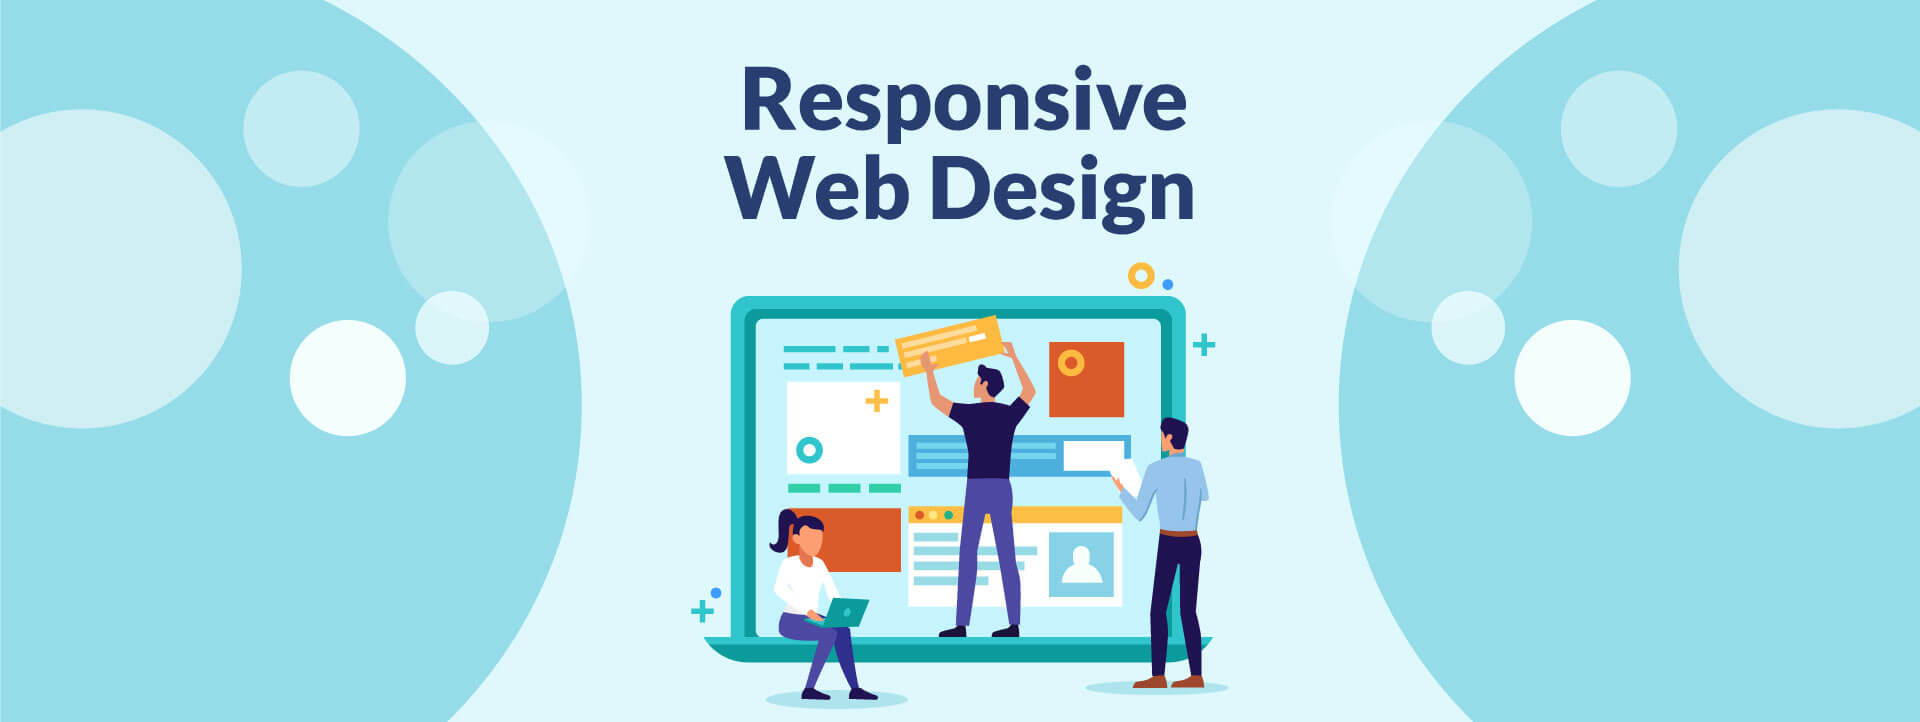
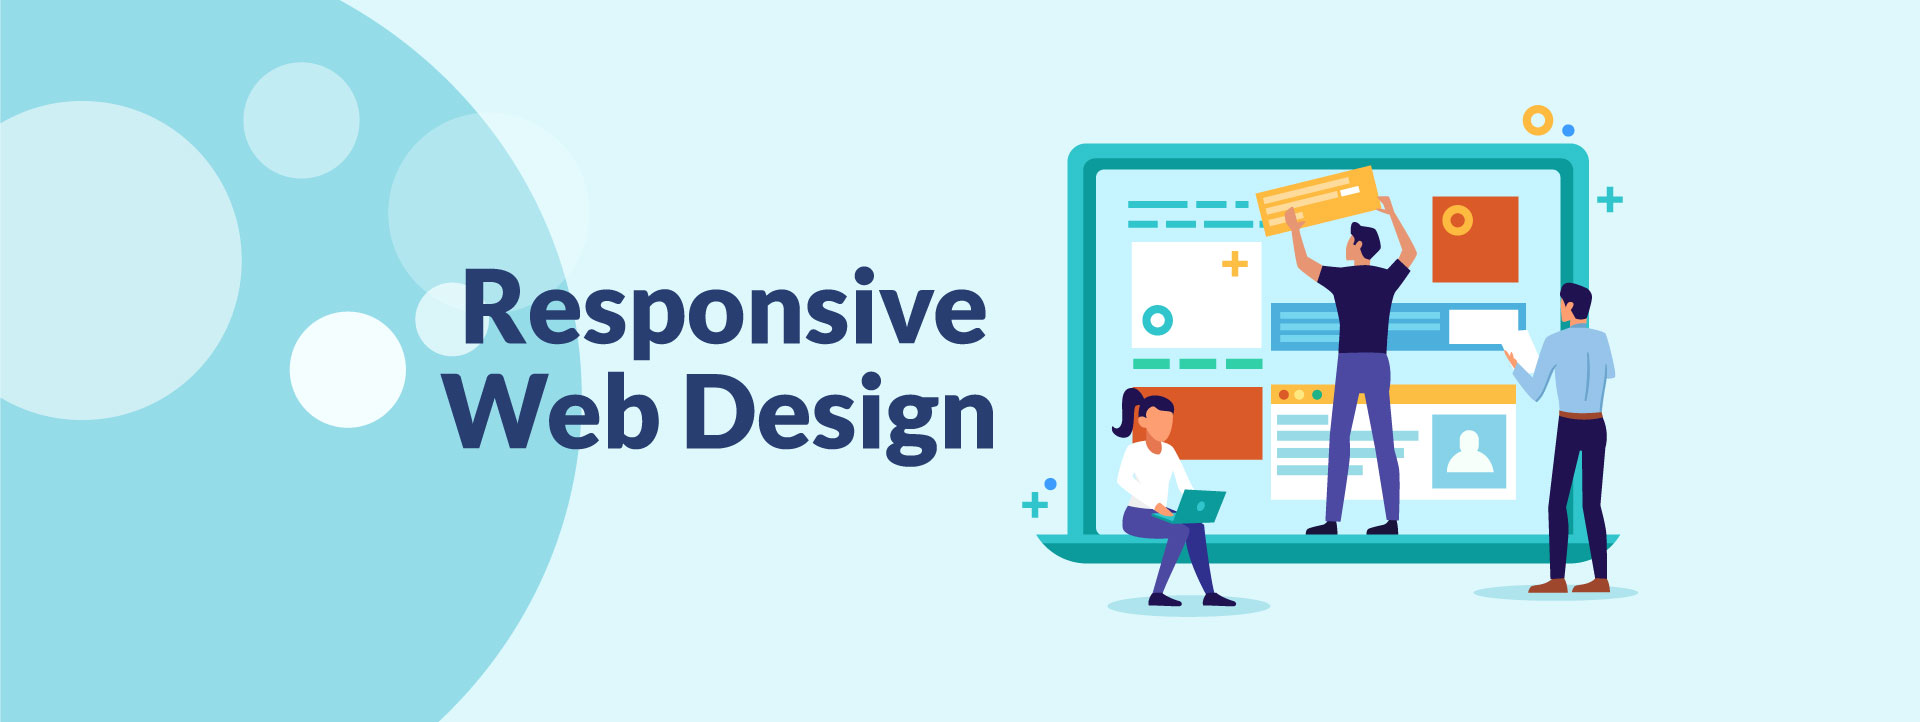
updated hero section

diff --git a/css/style.css b/css/style.css
@@ -1,1 +1,1 @@
-html,body{font-family:"Roboto", sans-serif;font-size:62.5%;scroll-behavior:smooth;padding:0;margin:0;overflow-x:hidden}.primary-btn{display:inline-block;padding:1em 2em;font-size:1.5rem;text-transform:uppercase;color:#fff;background:#5bc0de;margin:1.8em 0;text-decoration:none;border-radius:2%}.primary-btn:hover{color:#fff;background:#2b9cc9;-webkit-transition:all 0.2s ease-in-out;transition:all 0.2s ease-in-out}.navbar{padding:2em 0 1.2em}.navbar .container-fluid{width:95%;border-bottom:1px solid #57526e5d;padding-bottom:0.8em;z-index:1}.navbar .toggle-icon{color:#1b1464}.navbar .navbar-nav .nav-item .nav-link{font-size:1.8rem;padding:1em;font-weight:600;color:#1b1464}.navbar .navbar-nav .nav-item .nav-link:hover{color:#2b9cc9;-webkit-transition:all 0.2s ease-in-out;transition:all 0.2s ease-in-out}.navbar .navbar-nav .num{margin-left:1.8em;color:#1b1464}.navbar .navbar-nav .num span i{font-size:3rem}.navbar .navbar-nav .num span p{font-size:1.6rem;margin-left:0.8em;display:inline-block}#hero .swiper-container{width:100%;height:100vh;position:relative}#hero .swiper-container .swiper-wrapper{position:absolute;top:0%;left:0%}#hero .swiper-container .swiper-wrapper .enroll{position:relative;max-width:100%;max-height:100vh}#hero .swiper-container .swiper-wrapper .enroll>a{position:absolute;left:45%;bottom:4%;color:#000;text-transform:uppercase;padding:0.85em 2.2em;font-size:1.2rem;font-weight:500;z-index:100}#hero .swiper-container .swiper-wrapper .enroll>a:hover{-webkit-transform:scale(0.98);transform:scale(0.98);-webkit-transition:all 0.2s ease-out;transition:all 0.2s ease-out;color:green}#hero .swiper-container .swiper-wrapper .swiper-slide{background-position:center;background-size:cover;position:relative}#hero .swiper-container .swiper-wrapper .swiper-slide .banner-overlay{height:100%;width:100%;position:absolute;top:0;left:0;background-color:rgba(0,0,0,0.199)}#hero .swiper-container .swiper-wrapper .slider-content{width:80%;margin:auto;text-align:center;position:absolute;top:50%;left:50%;-webkit-transform:translate(-50%, -50%);transform:translate(-50%, -50%);z-index:100}#hero .swiper-container .swiper-wrapper h1{font-size:4rem;color:#1b1464;font-weight:600}#hero .swiper-container .swiper-wrapper p{font-size:2.5rem;color:#fff;font-weight:500;margin:1.8em 0}#hero .swiper-container .swiper-wrapper .bt{display:inline-block;width:10em;height:1em;border-radius:10%;background:#5bc0de}#about{background:#f1f1f1;padding:2em 0}#about h4{display:inline-block;font-size:2.5rem;text-transform:uppercase;font-weight:700;text-align:center;color:#f1f1f1;margin-bottom:0.5em;cursor:default}#about p{color:#555555;font-weight:500;font-size:1.5rem;text-align:justify;padding-inline:2em}.section-header h3{position:relative;color:#1b1464;font-size:2.8rem;font-weight:700;padding-top:1.5em;padding-bottom:0.75em;text-align:center;text-transform:uppercase}.section-header h3::before{position:absolute;content:"";bottom:20%;left:50%;background-color:#2b9cc9;height:2px;width:8px}.section-header h3::after{position:absolute;content:"";bottom:20%;left:46%;background-color:#2b9cc9;height:2px;width:48px}.section-header h3 span::before{position:absolute;content:"";bottom:20%;left:51%;background-color:#2b9cc9;height:2px;width:6px}.section-header h3 span::after{position:absolute;content:"";bottom:20%;left:52%;background-color:#2b9cc9;height:2px;width:5px}#pack{padding:2em 0 8em}#pack .pack-box{background:#f1f1f1;padding-bottom:5em;border-radius:2%;-webkit-transition:all linear 0.3s;transition:all linear 0.3s}#pack .pack-box h4{font-size:2.5rem;font-weight:700;padding:0.4em 0 0.2em 0.9em}#pack .pack-box p{font-size:2rem;font-weight:500;padding-bottom:0.2em;color:#959595;padding-left:1.2em}#pack .pack-box:hover{background:#fff;-webkit-box-shadow:2px 4px 25px #959595;box-shadow:2px 4px 25px #959595;-webkit-transition:all linear 0.3s;transition:all linear 0.3s;-webkit-transform:scale(1.025);transform:scale(1.025)}#pack .pack-box:hover p{color:#212529;-webkit-transition:all linear 0.2s;transition:all linear 0.2s}#questions{padding:1.5em 0 5em;background:#f1f1f1}#questions button{font-size:1.8rem;background:#f1f1f1}#questions h3{color:#1b1464;font-size:2.8rem;font-weight:700;padding-top:1.5em;padding-bottom:0.75em}#questions .accordion-body{font-size:1.5rem}#contact{padding:1.5em 0 5em}#contact .list-group-item{font-size:1.9rem}footer #main-footer{background:#2b9cc9;padding:5em 0;background:url(/img/contact-bg.jpg) no-repeat center/cover}footer #main-footer h4{font-size:2.5rem}footer #main-footer p{font-size:1.4rem;color:#f4f2f3}footer #main-footer .s-icon a{width:30px;height:30px;border-radius:20%;text-decoration:none;color:#d8d8dc;border:2px solid #d8d8dc;margin-right:1.5em;display:-webkit-inline-box;display:-ms-inline-flexbox;display:inline-flex;-webkit-box-align:center;-ms-flex-align:center;align-items:center;-webkit-box-pack:center;-ms-flex-pack:center;justify-content:center}footer #main-footer .s-icon a:hover{border:2px solid #1b1464;color:#fff;background-color:#1b1464}footer #main-footer .fh-text{text-transform:uppercase;font-size:1.4rem;font-weight:700;color:#f4f2f3}footer #main-footer .footer-bottom{font-size:1.6rem;display:-webkit-box;display:-ms-flexbox;display:flex;-webkit-box-orient:vertical;-webkit-box-direction:normal;-ms-flex-direction:column;flex-direction:column;text-align:center;-webkit-box-align:center;-ms-flex-align:center;align-items:center;-webkit-box-pack:center;-ms-flex-pack:center;justify-content:center;padding:1em 0}#back-to-top-btn{display:none;-webkit-box-align:center;-ms-flex-align:center;align-items:center;-webkit-box-pack:center;-ms-flex-pack:center;justify-content:center;position:fixed;bottom:8%;text-decoration:none;right:1.5%;font-size:2.5rem;color:#fff;background:#2b9cc9;width:1.8em;height:1.8em;cursor:pointer;outline:none;border-radius:50%;-webkit-transition-duration:0.2s;transition-duration:0.2s;-webkit-transition-timing-function:ease-in-out;transition-timing-function:ease-in-out;-webkit-transition-property:background-color, color;transition-property:background-color, color}#back-to-top-btn:hover,#back-to-top-btn:focus{background:#1b1464}.btnEntrance{-webkit-animation-duration:0.5s;animation-duration:0.5s;-webkit-animation-fill-mode:both;animation-fill-mode:both;-webkit-animation-name:btnEntrance;animation-name:btnEntrance}@-webkit-keyframes btnEntrance{from{opacity:0;-webkit-transform:translate3d(0, 100%, 0);transform:translate3d(0, 100%, 0)}to{opacity:1;-webkit-transform:translate3d(0, 0, 0);transform:translate3d(0, 0, 0)}}@keyframes btnEntrance{from{opacity:0;-webkit-transform:translate3d(0, 100%, 0);transform:translate3d(0, 100%, 0)}to{opacity:1;-webkit-transform:translate3d(0, 0, 0);transform:translate3d(0, 0, 0)}}.btnExit{-webkit-animation-duration:0.25s;animation-duration:0.25s;-webkit-animation-fill-mode:both;animation-fill-mode:both;-webkit-animation-name:btnExit;animation-name:btnExit}@-webkit-keyframes btnExit{from{opacity:1}to{opacity:0;-webkit-transform:translate3d(0, 100%, 0);transform:translate3d(0, 100%, 0)}}@keyframes btnExit{from{opacity:1}to{opacity:0;-webkit-transform:translate3d(0, 100%, 0);transform:translate3d(0, 100%, 0)}}@media (min-width: 2560px){#hero .swiper-container .swiper-wrapper .enroll>a{left:47.5%}}@media (min-width: 1400px){#hero .swiper-container{height:90vh}}@media (max-width: 1199.98px){#hero .swiper-container{height:48vh}#hero .swiper-container .swiper-wrapper .enroll>a{left:43%}#hero .swiper-container .swiper-wrapper h1{font-size:3.5rem}#hero .swiper-container .swiper-wrapper p{font-size:2.2rem;margin:1em auto}}@media (min-width: 576px) and (max-width: 768px){.navbar .navbar-nav{text-align:center}.navbar .navbar-nav .nav-item{border-bottom:1px solid #57526e5d}.navbar .navbar-nav .num{margin-top:2.5em}#hero .swiper-container{height:35vh}#hero .swiper-container .swiper-wrapper .enroll>a{font-size:1rem;padding:0.8em 2em;left:43%;bottom:5%}#hero .swiper-container .swiper-wrapper h1{font-size:2.5rem}#hero .swiper-container .swiper-wrapper p{font-size:2rem;max-width:75%;margin:1em auto}#hero .swiper-container .swiper-button-prev,#hero .swiper-container .swiper-button-next{display:none}}@media (min-width: 320px) and (max-width: 575.98px){.primary-btn{font-size:1rem;padding:0.5em 1em;margin:1em 0}.navbar{-ms-flex-wrap:nowrap;flex-wrap:nowrap}.navbar .container-fluid{-ms-flex-wrap:wrap;flex-wrap:wrap}.navbar .navbar-brand{max-width:80%}.navbar .navbar-brand img{max-width:80%}.navbar .navbar-nav{text-align:center}.navbar .navbar-nav .nav-item{border-bottom:1px solid #57526e5d}.navbar .navbar-nav .num{margin-top:2.5em}#hero .swiper-container{height:20vh}#hero .swiper-container .swiper-wrapper .enroll>a{font-size:0.75rem;padding:0.8em 2em;left:40%;bottom:3%}#hero .swiper-container .swiper-wrapper h1{font-size:1.4rem}#hero .swiper-container .swiper-wrapper p{font-size:1.1rem;max-width:75%;margin:1em auto}#hero .swiper-container .swiper-wrapper .bt{width:5em;height:0.5em}#hero .swiper-container .swiper-button-prev,#hero .swiper-container .swiper-button-next{display:none}#hero .swiper-container .swiper-pagination{bottom:50%;left:46%;-webkit-transform:rotateZ(90deg);transform:rotateZ(90deg)}#back-to-top-btn{font-size:2rem}}
+html,body{font-family:"Roboto", sans-serif;font-size:62.5%;scroll-behavior:smooth;padding:0;margin:0;overflow-x:hidden}.primary-btn{display:inline-block;padding:1em 2em;font-size:1.5rem;text-transform:uppercase;color:#fff;background:#5bc0de;margin:1.8em 0;text-decoration:none;border-radius:2%}.primary-btn:hover{color:#fff;background:#2b9cc9;-webkit-transition:all 0.2s ease-in-out;transition:all 0.2s ease-in-out}.navbar{padding:2em 0 1.2em}.navbar .container-fluid{width:95%;border-bottom:1px solid #57526e5d;padding-bottom:0.8em;z-index:1}.navbar .toggle-icon{color:#1b1464}.navbar .navbar-nav .nav-item .nav-link{font-size:1.8rem;padding:1em;font-weight:600;color:#1b1464}.navbar .navbar-nav .nav-item .nav-link:hover{color:#2b9cc9;-webkit-transition:all 0.2s ease-in-out;transition:all 0.2s ease-in-out}.navbar .navbar-nav .num{margin-left:1.8em;color:#1b1464}.navbar .navbar-nav .num span i{font-size:3rem}.navbar .navbar-nav .num span p{font-size:1.6rem;margin-left:0.8em;display:inline-block}#hero .swiper-container{width:100%;height:100vh;position:relative}#hero .swiper-container .swiper-wrapper{position:absolute;top:0%;left:0%}#hero .swiper-container .swiper-wrapper .enroll{position:relative;max-width:100%;max-height:100vh}#hero .swiper-container .swiper-wrapper .enroll>a{position:absolute;left:45%;bottom:4%;color:#000;text-transform:uppercase;padding:0.85em 2.2em;font-size:1.2rem;font-weight:500;z-index:100}#hero .swiper-container .swiper-wrapper .enroll>a:hover{-webkit-transform:scale(0.98);transform:scale(0.98);-webkit-transition:all 0.2s ease-out;transition:all 0.2s ease-out;color:green}#hero .swiper-container .swiper-wrapper .swiper-slide{background-repeat:no-repeat;background-position:center;background-size:cover;position:relative}#hero .swiper-container .swiper-wrapper .swiper-slide .banner-overlay{height:100%;width:100%;position:absolute;top:0;left:0;background-color:rgba(0,0,0,0.199)}#hero .swiper-container .swiper-wrapper .slider-content{width:80%;margin:auto;text-align:center;position:absolute;top:50%;left:50%;-webkit-transform:translate(-50%, -50%);transform:translate(-50%, -50%);z-index:100}#hero .swiper-container .swiper-wrapper h1{font-size:4rem;color:#1b1464;font-weight:600}#hero .swiper-container .swiper-wrapper p{font-size:2.5rem;color:#fff;font-weight:500;margin:1.8em 0}#hero .swiper-container .swiper-wrapper .bt{display:inline-block;width:10em;height:1em;border-radius:10%;background:#5bc0de}#about{background:#f1f1f1;padding:2em 0}#about h4{display:inline-block;font-size:2.5rem;text-transform:uppercase;font-weight:700;text-align:center;color:#f1f1f1;margin-bottom:0.5em;cursor:default}#about p{color:#555555;font-weight:500;font-size:1.5rem;text-align:justify;padding-inline:2em}.section-header h3{position:relative;color:#1b1464;font-size:2.8rem;font-weight:700;padding-top:1.5em;padding-bottom:0.75em;text-align:center;text-transform:uppercase}.section-header h3::before{position:absolute;content:"";bottom:20%;left:50%;background-color:#2b9cc9;height:2px;width:8px}.section-header h3::after{position:absolute;content:"";bottom:20%;left:46%;background-color:#2b9cc9;height:2px;width:48px}.section-header h3 span::before{position:absolute;content:"";bottom:20%;left:51%;background-color:#2b9cc9;height:2px;width:6px}.section-header h3 span::after{position:absolute;content:"";bottom:20%;left:52%;background-color:#2b9cc9;height:2px;width:5px}#pack{padding:2em 0 8em}#pack .pack-box{background:#f1f1f1;padding-bottom:5em;border-radius:2%;-webkit-transition:all linear 0.3s;transition:all linear 0.3s}#pack .pack-box h4{font-size:2.5rem;font-weight:700;padding:0.4em 0 0.2em 0.9em}#pack .pack-box p{font-size:2rem;font-weight:500;padding-bottom:0.2em;color:#959595;padding-left:1.2em}#pack .pack-box:hover{background:#fff;-webkit-box-shadow:2px 4px 25px #959595;box-shadow:2px 4px 25px #959595;-webkit-transition:all linear 0.3s;transition:all linear 0.3s;-webkit-transform:scale(1.025);transform:scale(1.025)}#pack .pack-box:hover p{color:#212529;-webkit-transition:all linear 0.2s;transition:all linear 0.2s}#questions{padding:1.5em 0 5em;background:#f1f1f1}#questions button{font-size:1.8rem;background:#f1f1f1}#questions h3{color:#1b1464;font-size:2.8rem;font-weight:700;padding-top:1.5em;padding-bottom:0.75em}#questions .accordion-body{font-size:1.5rem}#contact{padding:1.5em 0 5em}#contact .list-group-item{font-size:1.9rem}footer #main-footer{background:#2b9cc9;padding:5em 0;background:url(/img/contact-bg.jpg) no-repeat center/cover}footer #main-footer h4{font-size:2.5rem}footer #main-footer p{font-size:1.4rem;color:#f4f2f3}footer #main-footer .s-icon a{width:30px;height:30px;border-radius:20%;text-decoration:none;color:#d8d8dc;border:2px solid #d8d8dc;margin-right:1.5em;display:-webkit-inline-box;display:-ms-inline-flexbox;display:inline-flex;-webkit-box-align:center;-ms-flex-align:center;align-items:center;-webkit-box-pack:center;-ms-flex-pack:center;justify-content:center}footer #main-footer .s-icon a:hover{border:2px solid #1b1464;color:#fff;background-color:#1b1464}footer #main-footer .fh-text{text-transform:uppercase;font-size:1.4rem;font-weight:700;color:#f4f2f3}footer #main-footer .footer-bottom{font-size:1.6rem;display:-webkit-box;display:-ms-flexbox;display:flex;-webkit-box-orient:vertical;-webkit-box-direction:normal;-ms-flex-direction:column;flex-direction:column;text-align:center;-webkit-box-align:center;-ms-flex-align:center;align-items:center;-webkit-box-pack:center;-ms-flex-pack:center;justify-content:center;padding:1em 0}#back-to-top-btn{display:none;-webkit-box-align:center;-ms-flex-align:center;align-items:center;-webkit-box-pack:center;-ms-flex-pack:center;justify-content:center;position:fixed;bottom:8%;text-decoration:none;right:1.5%;font-size:2.5rem;color:#fff;background:#2b9cc9;width:1.8em;height:1.8em;cursor:pointer;outline:none;border-radius:50%;-webkit-transition-duration:0.2s;transition-duration:0.2s;-webkit-transition-timing-function:ease-in-out;transition-timing-function:ease-in-out;-webkit-transition-property:background-color, color;transition-property:background-color, color}#back-to-top-btn:hover,#back-to-top-btn:focus{background:#1b1464}.btnEntrance{-webkit-animation-duration:0.5s;animation-duration:0.5s;-webkit-animation-fill-mode:both;animation-fill-mode:both;-webkit-animation-name:btnEntrance;animation-name:btnEntrance}@-webkit-keyframes btnEntrance{from{opacity:0;-webkit-transform:translate3d(0, 100%, 0);transform:translate3d(0, 100%, 0)}to{opacity:1;-webkit-transform:translate3d(0, 0, 0);transform:translate3d(0, 0, 0)}}@keyframes btnEntrance{from{opacity:0;-webkit-transform:translate3d(0, 100%, 0);transform:translate3d(0, 100%, 0)}to{opacity:1;-webkit-transform:translate3d(0, 0, 0);transform:translate3d(0, 0, 0)}}.btnExit{-webkit-animation-duration:0.25s;animation-duration:0.25s;-webkit-animation-fill-mode:both;animation-fill-mode:both;-webkit-animation-name:btnExit;animation-name:btnExit}@-webkit-keyframes btnExit{from{opacity:1}to{opacity:0;-webkit-transform:translate3d(0, 100%, 0);transform:translate3d(0, 100%, 0)}}@keyframes btnExit{from{opacity:1}to{opacity:0;-webkit-transform:translate3d(0, 100%, 0);transform:translate3d(0, 100%, 0)}}@media (min-width: 2560px){#hero .swiper-container .swiper-wrapper .enroll>a{left:47.5%}}@media (min-width: 1400px){#hero .swiper-container{height:90vh}}@media (max-width: 1199.98px){#hero .swiper-container{height:48vh}#hero .swiper-container .swiper-wrapper .enroll>a{left:43%}#hero .swiper-container .swiper-wrapper h1{font-size:3.5rem}#hero .swiper-container .swiper-wrapper p{font-size:2.2rem;margin:1em auto}}@media (min-width: 576px) and (max-width: 768px){.navbar .navbar-nav{text-align:center}.navbar .navbar-nav .nav-item{border-bottom:1px solid #57526e5d}.navbar .navbar-nav .num{margin-top:2.5em}#hero .swiper-container{height:35vh}#hero .swiper-container .swiper-wrapper .enroll>a{font-size:1rem;padding:0.8em 2em;left:43%;bottom:5%}#hero .swiper-container .swiper-wrapper h1{font-size:2.5rem;color:#fff}#hero .swiper-container .swiper-wrapper p{font-size:2rem;max-width:75%;margin:1em auto}#hero .swiper-container .swiper-button-prev,#hero .swiper-container .swiper-button-next{display:none}}@media (min-width: 320px) and (max-width: 575.98px){.primary-btn{font-size:1rem;padding:0.5em 1em;margin:1em 0}.navbar{-ms-flex-wrap:nowrap;flex-wrap:nowrap}.navbar .container-fluid{-ms-flex-wrap:wrap;flex-wrap:wrap}.navbar .navbar-brand{max-width:80%}.navbar .navbar-brand img{max-width:80%}.navbar .navbar-nav{text-align:center}.navbar .navbar-nav .nav-item{border-bottom:1px solid #57526e5d}.navbar .navbar-nav .num{margin-top:2.5em}#hero .swiper-container{height:20vh}#hero .swiper-container .swiper-wrapper .enroll>a{font-size:0.75rem;padding:0.8em 2em;left:40%;bottom:3%}#hero .swiper-container .swiper-wrapper h1{font-size:1.4rem;color:#fff}#hero .swiper-container .swiper-wrapper p{font-size:1.1rem;max-width:75%;margin:1em auto}#hero .swiper-container .swiper-wrapper .bt{width:5em;height:0.5em}#hero .swiper-container .swiper-button-prev,#hero .swiper-container .swiper-button-next{display:none}#hero .swiper-container .swiper-pagination{bottom:50%;left:46%;-webkit-transform:rotateZ(90deg);transform:rotateZ(90deg)}#back-to-top-btn{font-size:2rem}}

diff --git a/index.html b/index.html
@@ -5,9 +5,12 @@
   <meta charset="UTF-8" />
   <meta http-equiv="X-UA-Compatible" content="IE=edge" />
   <meta name="viewport" content="width=device-width, initial-scale=1.0" />
-  <meta name="description" content="">
-  <meta name="keywords" content="">
-  <meta name="author" content="">
+  <meta name="description" content="We are based in Faridpur but we want to establish a sustainable self-dependency
+  through the
+  online
+  employment model all over the 64 districts of Bangladesh. ">
+  <meta name="keywords" content="ProfessionalGraphicsDesign,AdvanceLogoDesign,ResponsiveWebDesign">
+  <meta name="author" content="palahsaha">
 
   <link rel="shortcut icon" href="/img/favicon.png" type="image/x-icon">
   <link rel="preconnect" href="https://fonts.googleapis.com">
@@ -93,7 +96,7 @@
             target="_blank" class="btn btn-warning rounded-pill">Enroll
             Now</a>
         </div>
-        <div class="swiper-slide enroll" style="background-image: url(img/ResponsiveWebDesign.jpg);">
+        <div class="swiper-slide enroll" style="background-image: url(img/ResponsiveWebDesign2.jpg);">
           <a href="https://docs.google.com/forms/d/e/1FAIpQLScbw9801pc34B3WYl5WnKcfeo7flXWy7lGeI3t03BnHRYmbKw/viewform"
             target="_blank" class="btn btn-warning rounded-pill">Enroll
             Now</a>

diff --git a/scss/_responsive.scss b/scss/_responsive.scss
@@ -71,6 +71,7 @@
         }
         h1 {
           font-size: 2.5rem;
+          color: #fff;
         }
         p {
           font-size: 2rem;
@@ -131,6 +132,7 @@
         }
         h1 {
           font-size: 1.4rem;
+          color: #fff;
         }
         p {
           font-size: 1.1rem;

diff --git a/scss/style.scss b/scss/style.scss
@@ -112,6 +112,7 @@ body {
         }
       }
       .swiper-slide {
+        background-repeat: no-repeat;
         background-position: center;
         background-size: cover;
         position: relative;
